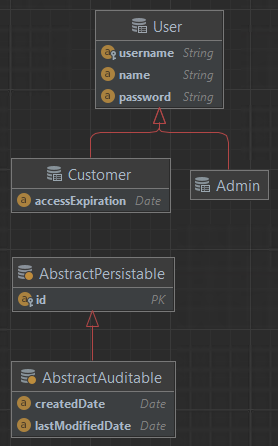
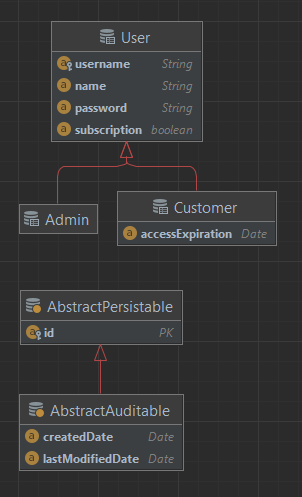
moved diagrams to one folder and added some features

diff --git a/src/main/resources/templates/profile.html b/src/main/resources/templates/profile.html
@@ -20,8 +20,14 @@
     </div>
     <div class="wrapper header-wrapper" id="right-header-bar">
         <div class="col-md header-column">
+            <button onclick="change_text()" class="button" id="upgrade">Upgrade to Premium</button>
+            <script>
+                function change_text(){
+                    document.getElementById("subscription").innerHTML = "PAID";
+                }
+            </script>
             <a href="/">
-                <input type="submit" id="logout" value="Log out"></input>
+                <input type="submit" class="button" value="Log out"></input>
             </a>
         </div>
     </div>
@@ -32,9 +38,12 @@
     <div id="main-window">
       <img id="user-icon" src="assets/default-avatar.png">
       <div id="context-pane">
-        <h3>Profile</h3>
-        <p class="profile-info" th:text="${customer.username}" id="username">  </p>
-        <p class="profile-info" th:text="${customer.password}" id="password"> </p>
+          <h3>Profile</h3>
+          <p class="profile-info" th:text="${customer.username}" id="username"> </p>
+          <p class="profile-info" th:text="${customer.password}" id="password"> </p>
+          <br> Subscription:
+            <div class="profile-info" th:text="${customer.subscription}" id="subscription"> FREE </div>
+          </br>
       </div>
     </div>
     <!-- END MAIN WINDOW -->

diff --git a/src/main/resources/templates/adminDash.html b/src/main/resources/templates/adminDash.html
@@ -7,7 +7,7 @@
 <script src="https://stackpath.bootstrapcdn.com/bootstrap/3.4.1/js/bootstrap.min.js" integrity="sha384-aJ21OjlMXNL5UyIl/XNwTMqvzeRMZH2w8c5cRVpzpU8Y5bApTppSuUkhZXN0VxHd" crossorigin="anonymous"></script>
 <link rel="stylesheet" href="https://stackpath.bootstrapcdn.com/bootstrap/3.4.1/css/bootstrap.min.css" integrity="sha384-HSMxcRTRxnN+Bdg0JdbxYKrThecOKuH5zCYotlSAcp1+c8xmyTe9GYg1l9a69psu" crossorigin="anonymous">
 <!-- END BOOTSTRAP -->
-<link rel="stylesheet" href="../public/css/adminDash.css">
+<link rel="stylesheet" href="css/adminDash.css">
 </head>
 
 <body>
@@ -41,7 +41,7 @@
               <th> End Date </th>
           </tr>
 
-          <tr th:text="customer : ${userlist.customersList}">
+          <tr>
               <td th:text="${username}" id="username">username</td>
               <td th:text="${name}" id="name">name</td>
               <td th:text="${password}" id="password">pw</td>

diff --git a/src/main/resources/public/css/temp.css b/src/main/resources/public/css/temp.css
@@ -20,6 +20,15 @@ h3 {
     align-items: center;
 }
 
+.button {
+    color: black;
+    margin: 5px;
+}
+
+.profile-info {
+    display: inline-block;
+}
+
 #header-bar {
   display: flex;
   align-items: center;
@@ -51,6 +60,3 @@ h3 {
   padding: 20px;
 }
 
-#logout {
-    color: black;
-}

diff --git a/src/main/java/ca/carleton/controllers/AccountController.java b/src/main/java/ca/carleton/controllers/AccountController.java
@@ -3,12 +3,9 @@ package ca.carleton.controllers;
 import ca.carleton.models.Admin;
 import ca.carleton.models.Customer;
 import ca.carleton.models.User;
-<<<<<<< HEAD
-=======
 import ca.carleton.models.UserRepository;
 import org.springframework.beans.factory.annotation.Autowired;
 import org.springframework.http.HttpStatus;
->>>>>>> fe61d8c30c4d4823758166bdb2d28bc7a36a974d
 import org.springframework.stereotype.Controller;
 import org.springframework.ui.Model;
 import org.springframework.web.bind.annotation.*;
@@ -62,18 +59,6 @@ public class AccountController {
         
         return new ModelAndView("profile");
     }
-/*
-    @PostMapping("/manageuser")
-    public String manageUsers(Model model){
-
-        User user = this.userRepository.findByUsername(username);
-
-        if (user == admin) {
-
-        }
-        return "manageuser";
-    }
-*/
 
     @GetMapping("/adminDash")
     public String adminForm(@ModelAttribute User user, Model model){
@@ -87,7 +72,19 @@ public class AccountController {
     @PostMapping("/adminDash")
     public String changeSub(@ModelAttribute User user, Model model){
 
-        user.setSubscription(true);
+        if (user.getSubscription() == true) {
+            user.setSubscription(false);
+        } else {
+            user.setSubscription(true);
+        }
         return "admin";
+    }
+
+    @PostMapping("/profile")
+    public String upgrade(@ModelAttribute Customer customer, Model model){
+
+        customer.setSubscription(true);
+
+        return "upgrade";
     }
 }
